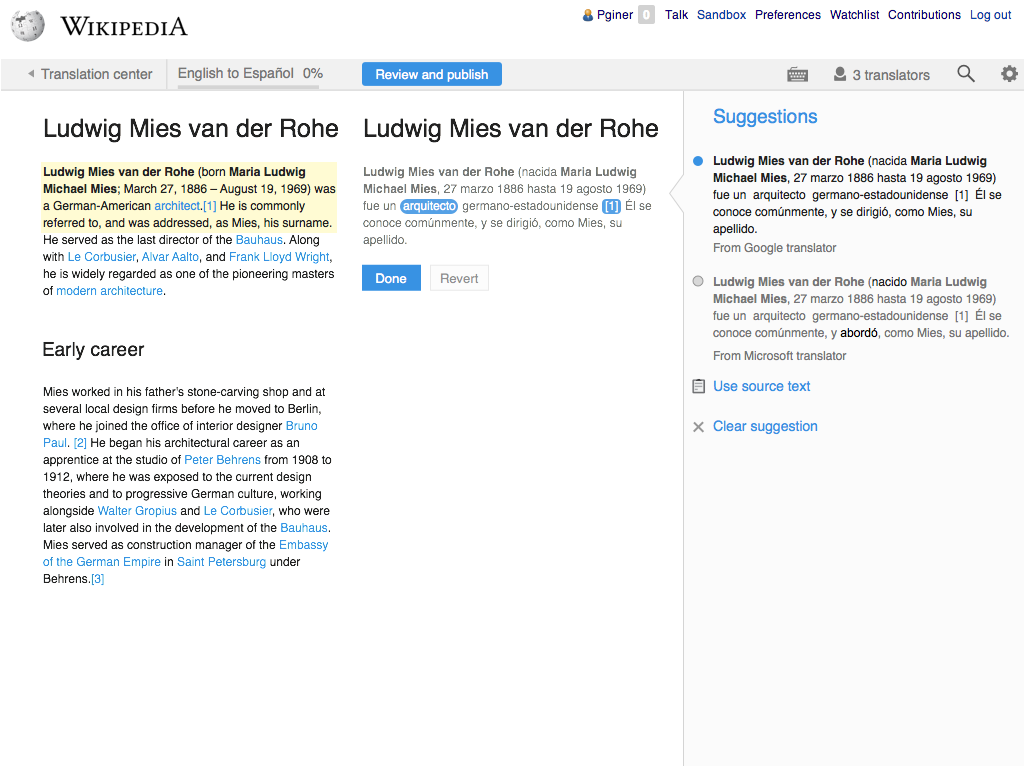
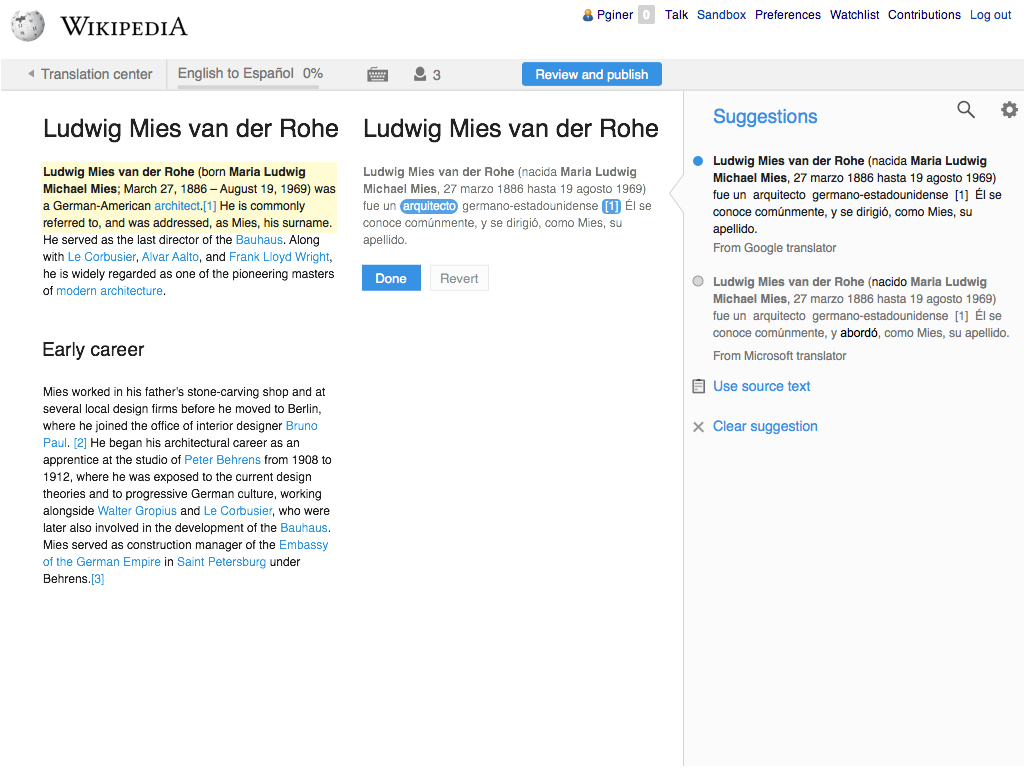
Updated Content translation prototype: translation, review and translation center design.

diff --git a/pencil/content-overview/index.html b/pencil/content-overview/index.html
@@ -1,3 +1,3 @@
 <html xmlns="http://www.w3.org/1999/xhtml"><head><meta http-equiv="Content-Type" content="text/html; charset=UTF-8" /><meta name="viewport" content="width=device-width, initial-scale=1" /><title>content-translation-overview.ep</title><script type="text/javascript" src="Resources/Script.js">
                     //
-                </script></head><body><div id="page"><div id="content"><div class="Page" id="start_page"><div class="Image"><img width="1024" height="768" src="pages/start.png" usemap="#map_start" id="start_page_image" /><div class="ImageFooter"> </div><map name="map_start"><area shape="rect" coords="78,513,171,551" href="#wikidatalinks_page" /></map></div></div><div class="Page" id="wikidatalinks_page"><div class="Image"><img width="1024" height="768" src="pages/wikidatalinks.png" usemap="#map_wikidatalinks" id="wikidatalinks_page_image" /><div class="ImageFooter"> </div><map name="map_wikidatalinks"><area shape="rect" coords="756,302,849,340" href="#wikidataadd_page" /></map></div></div><div class="Page" id="wikidataadd_page"><div class="Image"><img width="1024" height="768" src="pages/wikidataadd.png" usemap="#map_wikidataadd" id="wikidataadd_page_image" /><div class="ImageFooter"> </div><map name="map_wikidataadd"><area shape="rect" coords="207,441,300,467" href="#wikidataaddsearchinitial_page" /></map></div></div><div class="Page" id="wikidataaddsearchinitial_page"><div class="Image"><img width="1024" height="768" src="pages/wikidataaddsearchinitial.png" usemap="#map_wikidataaddsearchinitial" id="wikidataaddsearchinitial_page_image" /><div class="ImageFooter"> </div><map name="map_wikidataaddsearchinitial"><area shape="rect" coords="366,431,754,475" href="#wikidataaddsearch_page" /><area shape="rect" coords="393,319,750,344" href="#wikidataaddsearch_page" /></map></div></div><div class="Page" id="wikidataaddsearch_page"><div class="Image"><img width="1024" height="768" src="pages/wikidataaddsearch.png" usemap="#map_wikidataaddsearch" id="wikidataaddsearch_page_image" /><div class="ImageFooter"> </div><map name="map_wikidataaddsearch"><area shape="rect" coords="553,463,754,507" href="#wikidataadded_page" /></map></div></div><div class="Page" id="wikidataadded_page"><div class="Image"><img width="1024" height="768" src="pages/wikidataadded.png" usemap="#map_wikidataadded" id="wikidataadded_page_image" /><div class="ImageFooter"> </div><map name="map_wikidataadded"><area shape="rect" coords="756,319,883,344" href="#translateinitial_page" /></map></div></div><div class="Page" id="translateinitial_page"><div class="Image"><img width="1024" height="768" src="pages/translateinitial.png" usemap="#map_translateinitial" id="translateinitial_page_image" /><div class="ImageFooter"> </div><map name="map_translateinitial"><area shape="rect" coords="349,258,419,295" href="#translatep1_page" /></map></div></div><div class="Page" id="translatep1_page"><div class="Image"><img width="1024" height="768" src="pages/translatep1.png" usemap="#map_translatep1" id="translatep1_page_image" /><div class="ImageFooter"> </div></div></div></div></div></body></html>
+                </script></head><body><div id="page"><div id="content"><div class="Page" id="start_page"><div class="Image"><img width="1024" height="768" src="pages/start.png" usemap="#map_start" id="start_page_image" /><div class="ImageFooter"> </div><map name="map_start"><area shape="rect" coords="78,513,171,551" href="#wikidatalinks_page" /></map></div></div><div class="Page" id="wikidatalinks_page"><div class="Image"><img width="1024" height="768" src="pages/wikidatalinks.png" usemap="#map_wikidatalinks" id="wikidatalinks_page_image" /><div class="ImageFooter"> </div><map name="map_wikidatalinks"><area shape="rect" coords="756,302,849,340" href="#wikidataadd_page" /></map></div></div><div class="Page" id="wikidataadd_page"><div class="Image"><img width="1024" height="768" src="pages/wikidataadd.png" usemap="#map_wikidataadd" id="wikidataadd_page_image" /><div class="ImageFooter"> </div><map name="map_wikidataadd"><area shape="rect" coords="207,441,300,467" href="#wikidataaddsearchinitial_page" /></map></div></div><div class="Page" id="wikidataaddsearchinitial_page"><div class="Image"><img width="1024" height="768" src="pages/wikidataaddsearchinitial.png" usemap="#map_wikidataaddsearchinitial" id="wikidataaddsearchinitial_page_image" /><div class="ImageFooter"> </div><map name="map_wikidataaddsearchinitial"><area shape="rect" coords="366,431,754,475" href="#wikidataaddsearch_page" /><area shape="rect" coords="393,319,750,344" href="#wikidataaddsearch_page" /></map></div></div><div class="Page" id="wikidataaddsearch_page"><div class="Image"><img width="1024" height="768" src="pages/wikidataaddsearch.png" usemap="#map_wikidataaddsearch" id="wikidataaddsearch_page_image" /><div class="ImageFooter"> </div><map name="map_wikidataaddsearch"><area shape="rect" coords="553,463,754,507" href="#wikidataadded_page" /></map></div></div><div class="Page" id="wikidataadded_page"><div class="Image"><img width="1024" height="768" src="pages/wikidataadded.png" usemap="#map_wikidataadded" id="wikidataadded_page_image" /><div class="ImageFooter"> </div><map name="map_wikidataadded"><area shape="rect" coords="756,319,883,344" href="#translateinitial_page" /></map></div></div><div class="Page" id="translateinitial_page"><div class="Image"><img width="1024" height="768" src="pages/translateinitial.png" usemap="#map_translateinitial" id="translateinitial_page_image" /><div class="ImageFooter"> </div><map name="map_translateinitial"><area shape="rect" coords="355,258,425,295" href="#translatep1_page" /></map></div></div><div class="Page" id="translatep1_page"><div class="Image"><img width="1024" height="768" src="pages/translatep1.png" usemap="#map_translatep1" id="translatep1_page_image" /><div class="ImageFooter"> </div><map name="map_translatep1"><area shape="rect" coords="355,330,427,367" href="#translatep2_page" /><area shape="rect" coords="17,54,162,91" href="#articlesintranslation_page" /><area shape="rect" coords="523,51,668,88" href="#review_page" /></map></div></div><div class="Page" id="review_page"><div class="Image"><img width="1024" height="768" src="pages/review.png" usemap="#map_review" id="review_page_image" /><div class="ImageFooter"> </div><map name="map_review"><area shape="rect" coords="17,79,162,116" href="#translatep1_page" /></map></div></div><div class="Page" id="articlesintranslation_page"><div class="Image"><img width="1024" height="768" src="pages/articlesintranslation.png" usemap="#map_articlesintranslation" id="articlesintranslation_page_image" /><div class="ImageFooter"> </div><map name="map_articlesintranslation"><area shape="rect" coords="56,474,946,564" href="#translatep1_page" /></map></div></div><div class="Page" id="translatep2_page"><div class="Image"><img width="1024" height="768" src="pages/translatep2.png" usemap="#map_translatep2" id="translatep2_page_image" /><div class="ImageFooter"> </div><map name="map_translatep2"><area shape="rect" coords="17,54,162,91" href="#articlesintranslation_page" /><area shape="rect" coords="523,51,668,88" href="#review_page" /></map></div></div></div></div></body></html>
